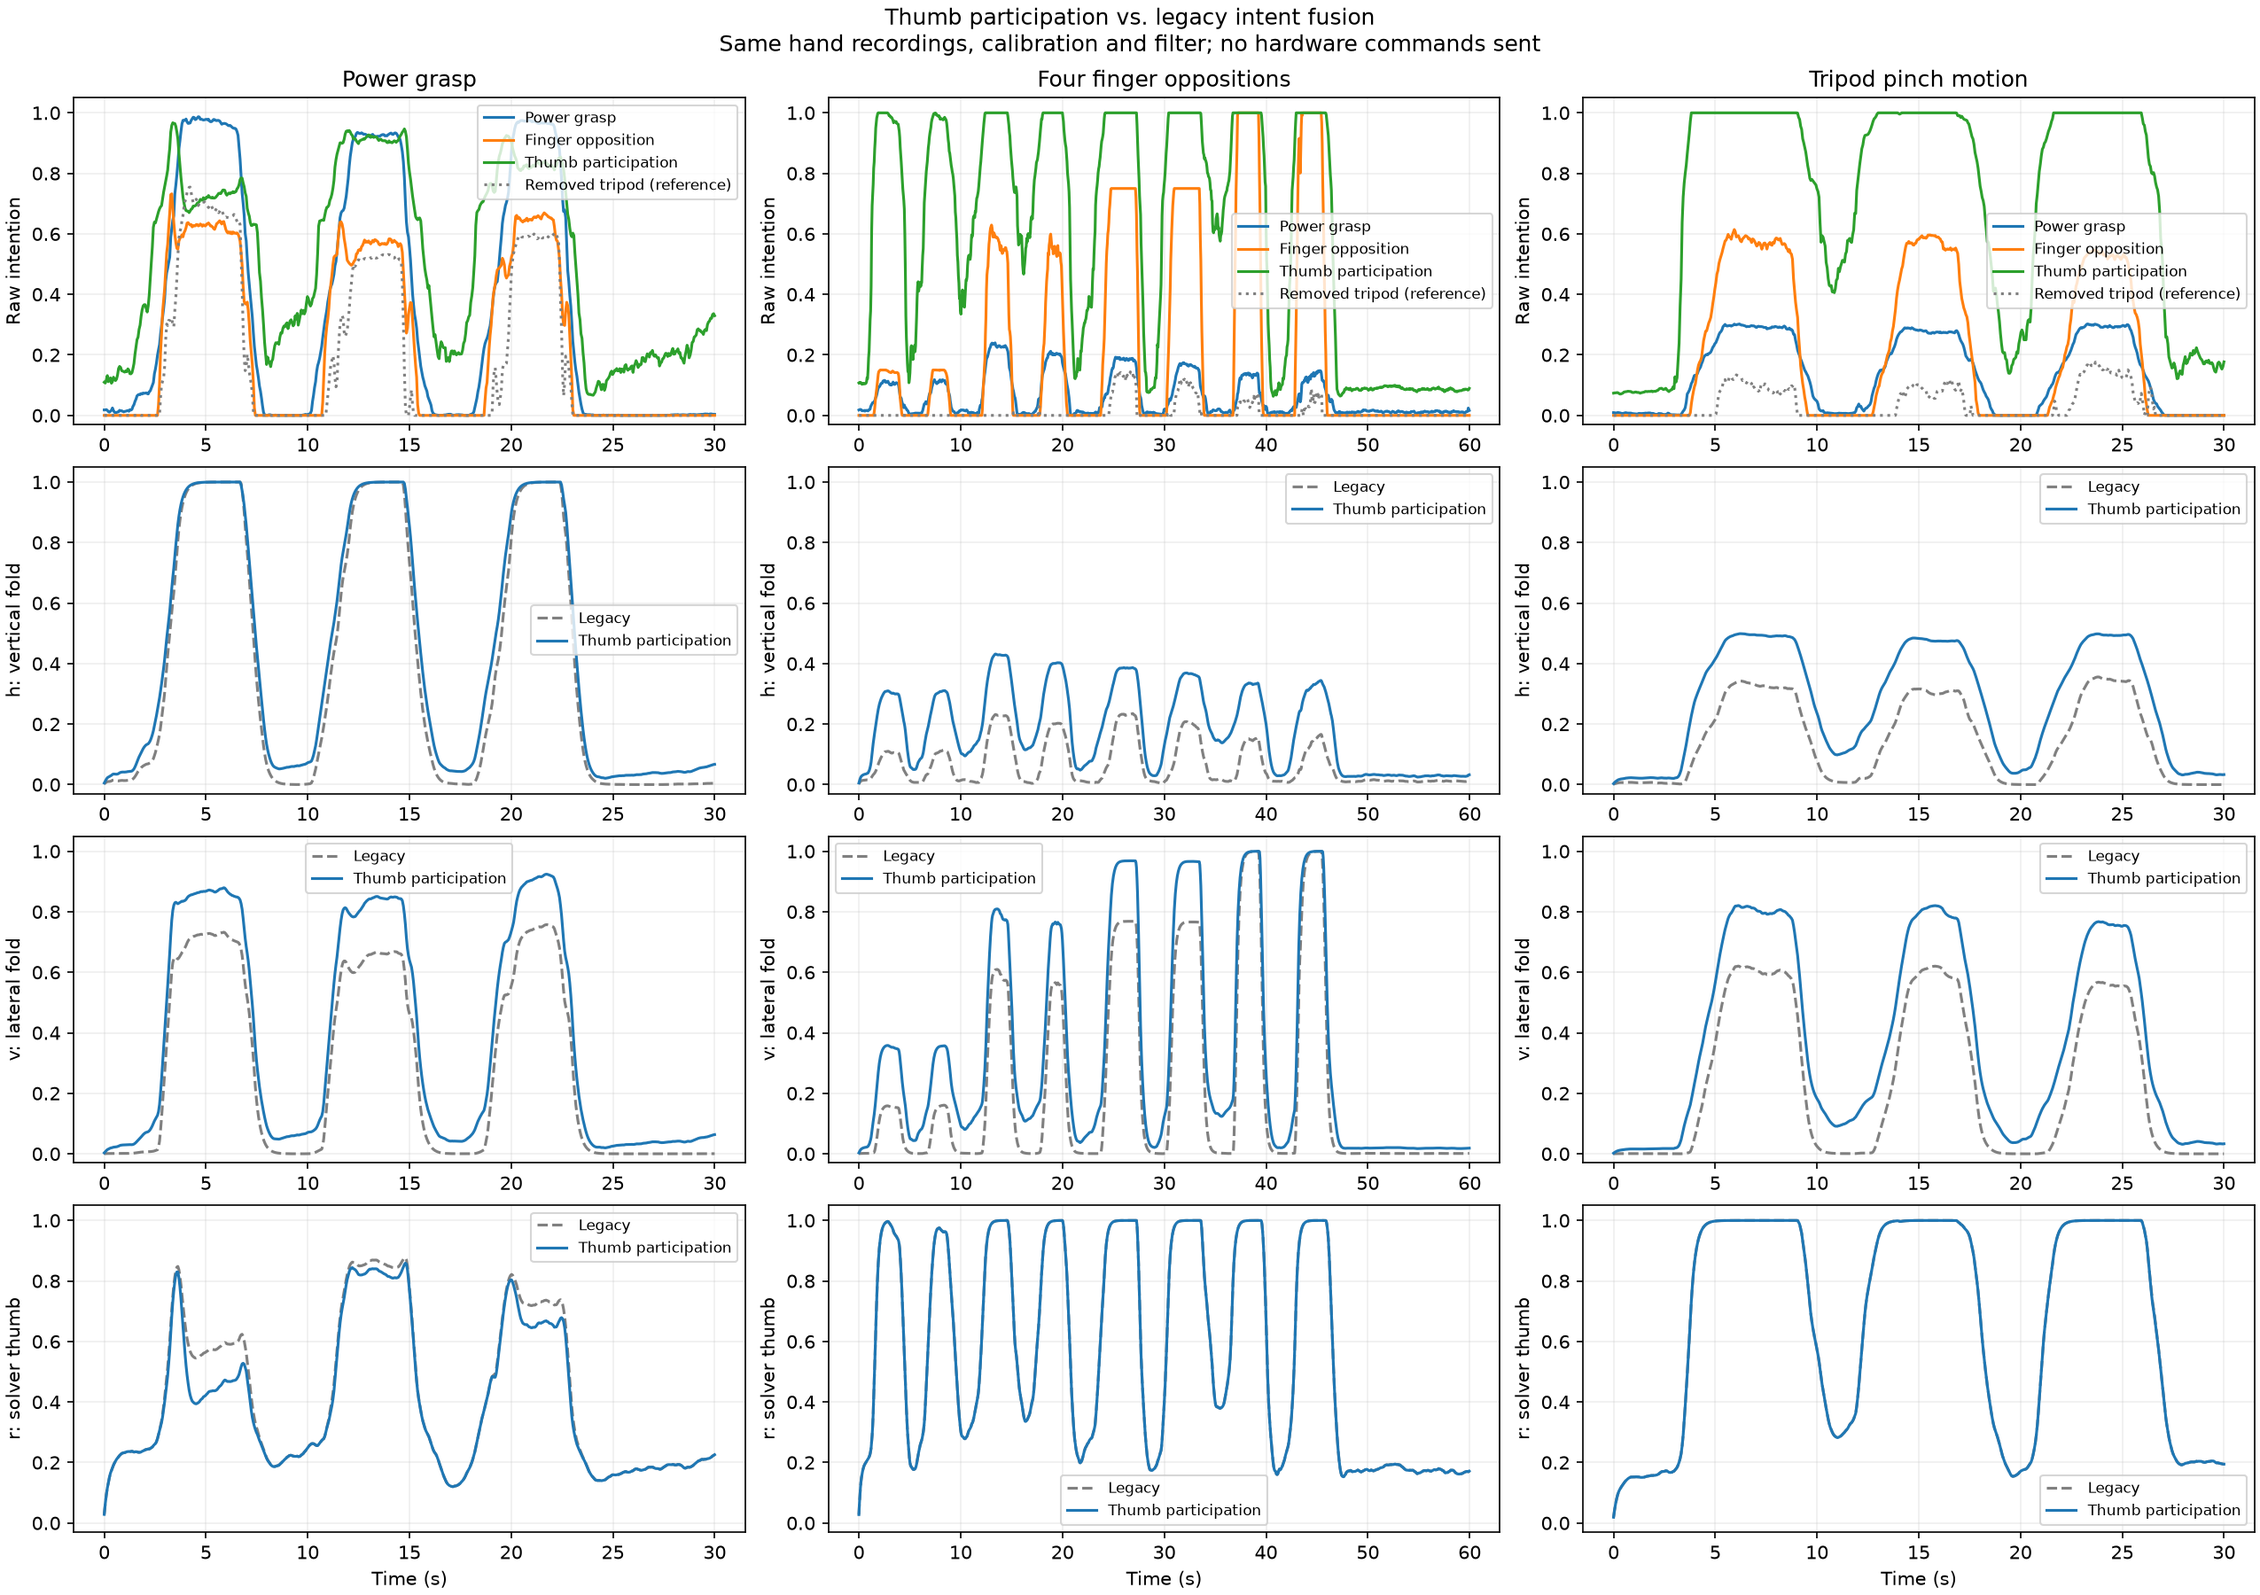
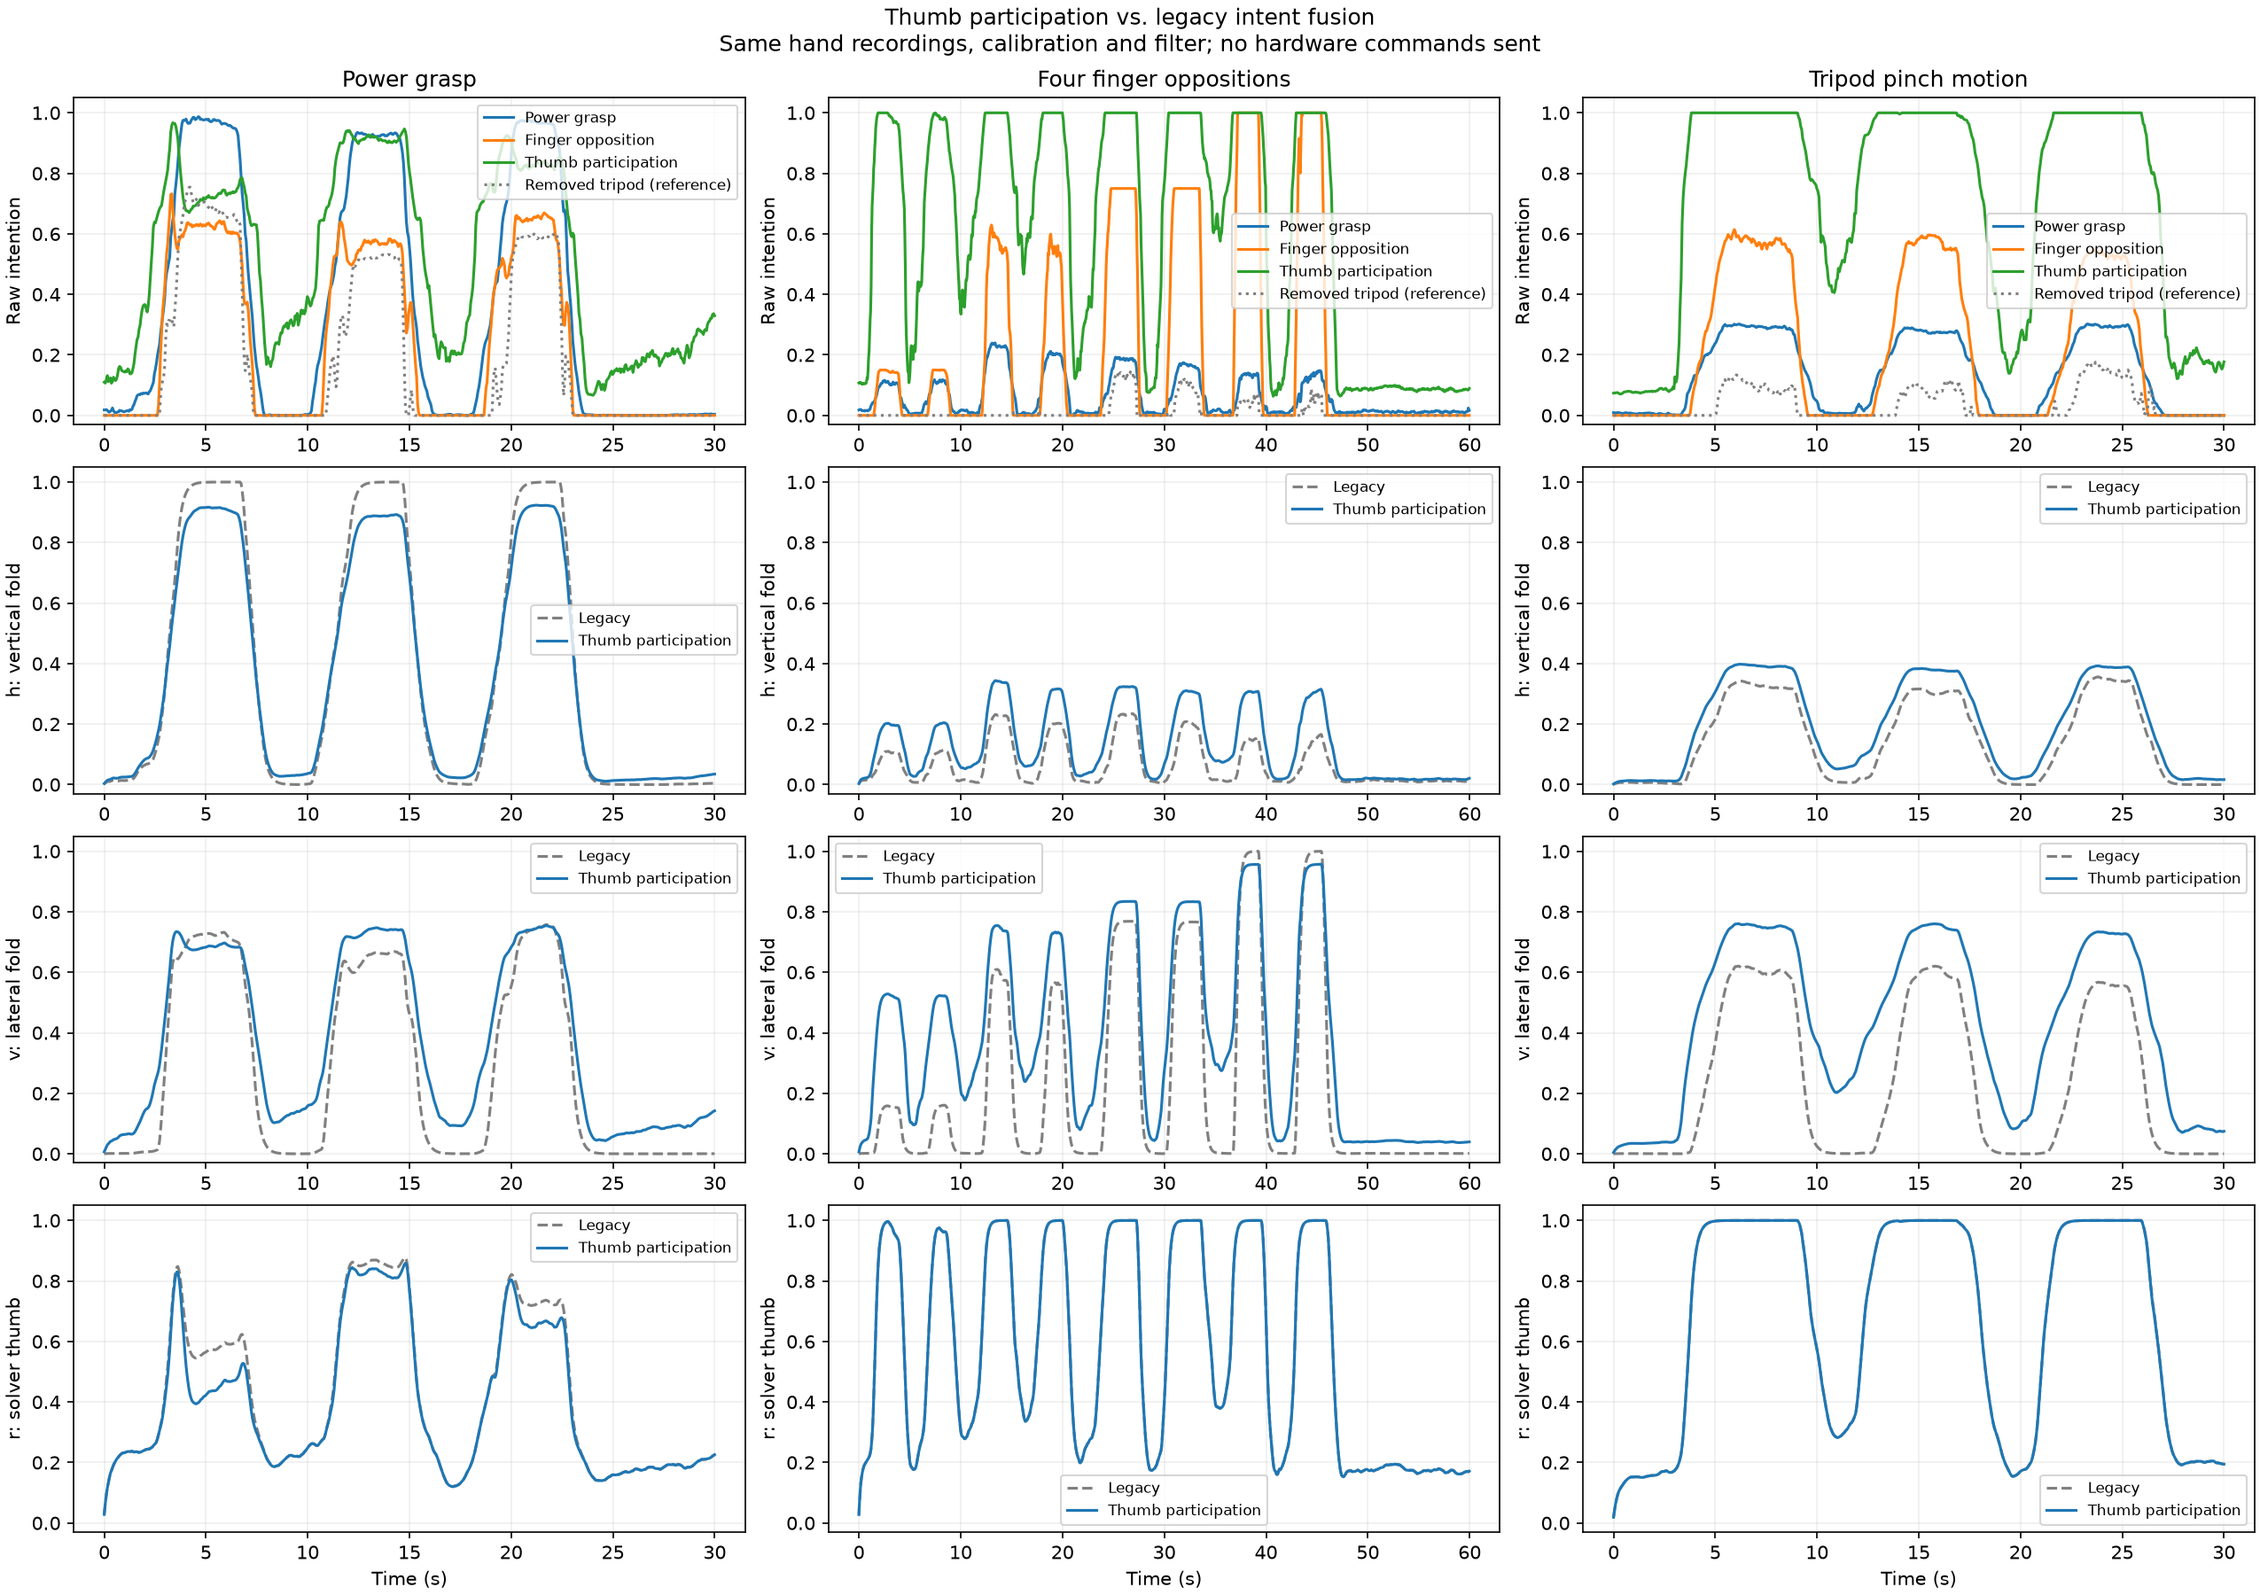
Normalize palm intent fusion with configured per-axis weights

diff --git a/DHandControl/tests/test_mh6_thumb_participation.py b/DHandControl/tests/test_mh6_thumb_participation.py
@@ -36,10 +36,11 @@ class ThumbParticipationTest(unittest.TestCase):
         self.assertAlmostEqual(profile.participation(0,1),1/3)
         self.assertEqual(profile.participation(1,1),1.)
         self.assertEqual(profile.participation(-1,-1),0.)
-        self.assertEqual(ThumbParticipationFusion.load().to_dict()["vertical_thumb_gain"],.2)
+        self.assertEqual(ThumbParticipationFusion.load().to_dict()["vertical_thumb_gain"],.1)
         for values in ({"thumb_rotation_weight":-1},{"vertical_thumb_gain":2},
                        {"lateral_thumb_gain":float("nan")},{"thumb_abduction_weight":True},
-                       {"thumb_rotation_weight":0,"thumb_abduction_weight":0}):
+                       {"thumb_rotation_weight":0,"thumb_abduction_weight":0},
+                       {"vertical_opposition_gain":0.}, {"lateral_power_gain":.1}):
             with self.assertRaises(ValueError): ThumbParticipationFusion(**values)
         with self.assertRaisesRegex(ValueError,"M4 calibration"):
             profile.participation(.5,None)
@@ -49,6 +50,9 @@ class ThumbParticipationTest(unittest.TestCase):
         with tempfile.TemporaryDirectory() as folder:
             path=Path(folder)/"fusion.json";path.write_text(json.dumps(data))
             with self.assertRaises(ValueError):ThumbParticipationFusion.load(path)
+            data.pop("extra_gain");data["schema_version"]=1
+            path.write_text(json.dumps(data))
+            with self.assertRaisesRegex(ValueError,"schema_version 2"):ThumbParticipationFusion.load(path)
 
     def test_tripod_is_absent_and_old_tripod_gains_cannot_influence_commands(self):
         config=MappingCalibration(thumb_abduction_neutral_deg=0,thumb_abduction_endpoint_deg=30,
@@ -59,8 +63,8 @@ class ThumbParticipationTest(unittest.TestCase):
         intent=mapper.compute_grasp_intents(curls,opposition,thumb_rotation_measured=0.,thumb_abduction_measured=0.)
         self.assertFalse(set(intent)&{"tripod_flexion","tripod_proximity","tripod_precision","t"})
         command=mapper.compute_palm_commands(intent,0.)
-        self.assertAlmostEqual(command["vertical"],intent["power_grasp"])
-        self.assertAlmostEqual(command["lateral"],.1*intent["power_grasp"]+intent["opposition_cross"])
+        self.assertAlmostEqual(command["vertical"],.8*intent["power_grasp"]+.1*intent["opposition_cross"])
+        self.assertAlmostEqual(command["lateral"],.05*intent["power_grasp"]+.5*intent["opposition_cross"])
         self.assertEqual(command["thumb_rotation_compensation"],0.)
         self.assertEqual(command["thumb_rotation_command"],0.)
 
@@ -76,24 +80,45 @@ class ThumbParticipationTest(unittest.TestCase):
                     out=profile.commands(dict(power_grasp=0.,opposition_cross=0.,thumb_participation=thumb),r,config)
                     self.assertGreaterEqual(out["vertical"],previous[0])
                     self.assertGreaterEqual(out["lateral"],previous[1])
-                    self.assertAlmostEqual(out["vertical"],.2*thumb)
-                    self.assertAlmostEqual(out["lateral"],.2*thumb)
+                    self.assertAlmostEqual(out["vertical"],.1*thumb)
+                    self.assertAlmostEqual(out["lateral"],.45*thumb)
                     self.assertEqual(out["thumb_rotation_command"],r)
                     previous=(out["vertical"],out["lateral"])
 
     def test_clip_and_contribution_logging_remain_explicit(self):
         out=ThumbParticipationFusion().commands(dict(power_grasp=1.,opposition_cross=1.,thumb_participation=1.),.7,MappingCalibration())
         self.assertEqual((out["vertical"],out["lateral"]),(1.,1.))
-        self.assertAlmostEqual(out["vertical_before_clip"],1.2)
-        self.assertAlmostEqual(out["lateral_before_clip"],1.3)
+        self.assertAlmostEqual(out["vertical_before_clip"],1.)
+        self.assertAlmostEqual(out["lateral_before_clip"],1.)
+        self.assertAlmostEqual(out["vertical_from_opposition"],.1)
         self.assertEqual(out["thumb_rotation_command"],.7)
 
-    def test_existing_power_and_opposition_gains_are_applied_without_renormalizing(self):
+    def test_old_mapping_gains_do_not_override_fusion_and_inputs_are_bounded(self):
         calibration=MappingCalibration(vertical_power_gain=.75,lateral_power_gain=.2,lateral_opposition_gain=.4)
         out=ThumbParticipationFusion().commands(dict(power_grasp=.4,opposition_cross=1.5,thumb_participation=.5),.8,calibration)
-        self.assertAlmostEqual(out["vertical"],.4)
-        self.assertAlmostEqual(out["lateral"],.78)
+        self.assertAlmostEqual(out["vertical"],.47)
+        self.assertAlmostEqual(out["lateral"],.745)
         self.assertEqual(out["thumb_rotation_command"],.8)
+
+    def test_each_intent_has_requested_gain_and_mixed_inputs_do_not_saturate_early(self):
+        profile=ThumbParticipationFusion.load()
+        for active, expected in (("power_grasp",(.8,.05)),
+                                 ("opposition_cross",(.1,.5)),
+                                 ("thumb_participation",(.1,.45))):
+            intent=dict(power_grasp=0.,opposition_cross=0.,thumb_participation=0.)
+            intent[active]=1.
+            out=profile.commands(intent,0.,MappingCalibration())
+            self.assertAlmostEqual(out["vertical"],expected[0])
+            self.assertAlmostEqual(out["lateral"],expected[1])
+        for g in np.linspace(0,1,11):
+            for o in np.linspace(0,1,11):
+                for p in np.linspace(0,1,11):
+                    out=profile.commands(dict(power_grasp=g,opposition_cross=o,thumb_participation=p),0.,MappingCalibration())
+                    for axis in ("vertical","lateral"):
+                        self.assertGreaterEqual(out[axis+"_before_clip"],0.)
+                        self.assertLessEqual(out[axis+"_before_clip"],1.+1e-12)
+                        if min(g,o,p)<1.:
+                            self.assertLess(out[axis],1.)
 
     def test_real_mapping_preserves_calibration_fingers_m4_and_base_intents(self):
         calibration=human_calibration();before=copy.deepcopy(calibration.to_dict())
@@ -133,10 +158,11 @@ class ThumbParticipationTest(unittest.TestCase):
             self.assertEqual(status,0)
             rows=[json.loads(line) for line in log.read_text().splitlines()]
             self.assertEqual(rows[0]["runtime_config"]["intent_fusion"],"thumb_participation")
+            self.assertAlmostEqual(rows[0]["runtime_config"]["intent_fusion_parameters"]["vertical_opposition_gain"],.1)
             self.assertAlmostEqual(rows[1]["raw_mapping"]["grasp_intent"]["thumb_participation"],.5)
             self.assertNotIn("tripod_precision",rows[1]["raw_mapping"]["intent"])
             self.assertFalse(rows[1]["execution"]["hardware_enabled"])
-            self.assertAlmostEqual(rows[1]["raw_mapping"]["palm_command"]["vertical_from_thumb"],.1)
+            self.assertAlmostEqual(rows[1]["raw_mapping"]["palm_command"]["vertical_from_thumb"],.05)
 
 
 if __name__=="__main__":unittest.main()

diff --git a/DHandControl/scripts/mh6_intent_fusion.py b/DHandControl/scripts/mh6_intent_fusion.py
@@ -18,8 +18,12 @@ def unit(value):
 class ThumbParticipationFusion:
     thumb_rotation_weight: float = .5
     thumb_abduction_weight: float = .5
-    vertical_thumb_gain: float = .2
-    lateral_thumb_gain: float = .2
+    vertical_power_gain: float = .8
+    vertical_opposition_gain: float = .1
+    vertical_thumb_gain: float = .1
+    lateral_power_gain: float = .05
+    lateral_opposition_gain: float = .5
+    lateral_thumb_gain: float = .45
 
     def __post_init__(self):
         for name,value in asdict(self).items():
@@ -28,20 +32,23 @@ class ThumbParticipationFusion:
         weight_sum=self.thumb_rotation_weight+self.thumb_abduction_weight
         if not math.isfinite(weight_sum) or weight_sum <= 0:
             raise ValueError("thumb participation weights must have a positive sum")
-        if self.vertical_thumb_gain > 1 or self.lateral_thumb_gain > 1:
-            raise ValueError("thumb palm gains must lie in [0,1]")
+        for axis in ("vertical", "lateral"):
+            gains = [getattr(self, f"{axis}_{source}_gain")
+                     for source in ("power", "opposition", "thumb")]
+            if not math.isclose(sum(gains), 1., rel_tol=0., abs_tol=1e-9):
+                raise ValueError(f"{axis} intent gains must sum to 1")
 
     @classmethod
     def load(cls,path=DEFAULT_INTENT_FUSION_PATH):
         data=json.loads(Path(path).expanduser().read_text())
-        if not isinstance(data,dict) or type(data.get("schema_version")) is not int or data["schema_version"] != 1:
-            raise ValueError("expected thumb-participation schema_version 1")
+        if not isinstance(data,dict) or type(data.get("schema_version")) is not int or data["schema_version"] != 2:
+            raise ValueError("expected thumb-participation schema_version 2 with all six palm gains")
         if set(data) != {"schema_version",*cls.__dataclass_fields__}:
             raise ValueError("unexpected thumb-participation configuration fields")
         return cls(**{key:value for key,value in data.items() if key != "schema_version"})
 
     def to_dict(self):
-        return {"schema_version":1,**asdict(self)}
+        return {"schema_version":2,**asdict(self)}
 
     def participation(self,rotation,abduction):
         if abduction is None:
@@ -51,21 +58,22 @@ class ThumbParticipationFusion:
 
     def commands(self,intent,rotation,calibration):
         power=unit(intent["power_grasp"])
-        opposition=float(intent["opposition_cross"])
-        if not math.isfinite(opposition) or opposition < 0:
-            raise ValueError("opposition contribution must be finite and nonnegative")
+        opposition=unit(intent["opposition_cross"])
         thumb=unit(intent["thumb_participation"])
-        h_power=calibration.vertical_power_gain*power
+        # Palm fusion gains belong to this profile; Mapping retains human
+        # endpoints and legacy gains for explicit legacy replay only.
+        h_power=self.vertical_power_gain*power
+        h_opposition=self.vertical_opposition_gain*opposition
         h_thumb=self.vertical_thumb_gain*thumb
-        v_power=calibration.lateral_power_gain*power
-        v_opposition=calibration.lateral_opposition_gain*opposition
+        v_power=self.lateral_power_gain*power
+        v_opposition=self.lateral_opposition_gain*opposition
         v_thumb=self.lateral_thumb_gain*thumb
-        h_pre=h_power+h_thumb; v_pre=v_power+v_opposition+v_thumb
+        h_pre=h_power+h_opposition+h_thumb; v_pre=v_power+v_opposition+v_thumb
         h,v,r=unit(h_pre),unit(v_pre),unit(rotation)
         return {"vertical":h,"lateral":v,"thumb_rotation_measured":r,
                 "thumb_rotation_compensation":0.,"thumb_rotation_command":r,
                 "common":h,"lateral_unit":v,
                 "thumb_participation":thumb,
-                "vertical_from_power":h_power,"vertical_from_thumb":h_thumb,
+                "vertical_from_power":h_power,"vertical_from_opposition":h_opposition,"vertical_from_thumb":h_thumb,
                 "lateral_from_power":v_power,"lateral_from_opposition":v_opposition,"lateral_from_thumb":v_thumb,
                 "vertical_before_clip":h_pre,"lateral_before_clip":v_pre}

diff --git a/artifacts/thumb_participation/compare_recordings.py b/artifacts/thumb_participation/compare_recordings.py
@@ -66,6 +66,12 @@ def main():
                     if len(examples[profile])<5:examples[profile].append({"frame":int(i),"time":now,"error":str(exc)})
                 counts[profile][status]+=1
             old,new=raw
+            for axis in ("vertical", "lateral"):
+                assert 0. <= new["palm_command"][axis+"_before_clip"] <= 1.+1e-12
+                assert 0. <= filtered[1]["palm_command"][axis] <= 1.
+                assert abs(sum(new["palm_command"][axis+"_from_"+intent]
+                               for intent in ("power", "opposition", "thumb"))
+                           -new["palm_command"][axis+"_before_clip"]) < 1e-12
             records.append({"timestamp":now,"legacy_intents":old["grasp_intent"],"new_intents":new["grasp_intent"],
                             "thumb_components":{"rotation":new["low_dim"]["u_thumb_rotation"],"abduction":new["low_dim"]["u_thumb_abduction"]},
                             "new_contributions":new["palm_command"],

diff --git a/README.md b/README.md
@@ -4,7 +4,8 @@
 
 `codex/thumb-participation-intent` 从 ACK 分支建立。默认移除三指捏取意图与其拇指补偿，
 将两路已标定拇指旋转加权为参与意图，再独立贡献手掌上下/左右翻折。
-握拳、四组逐指对指、五指/M4 直接通道及通信保持；参数、公式与对照曲线见
+握拳/四组逐指对指的意图计算、五指/M4 直接通道及通信保持；上下翻折融合权重为 `0.8/0.1/0.1`，
+左右翻折为 `0.05/0.5/0.45`（依次为握拳/对指/拇指参与）。参数、公式与对照曲线见
 [拇指参与意图实验](docs/mh6_thumb_participation.md)。缺少 M4 标定的旧数据用 `--intent-fusion legacy` 复现。
 
 ## 通信实验分支
